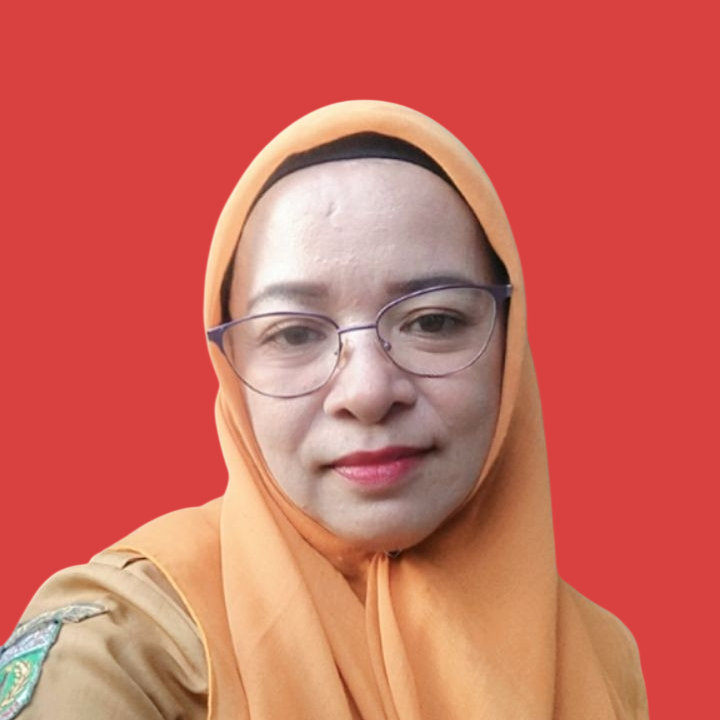
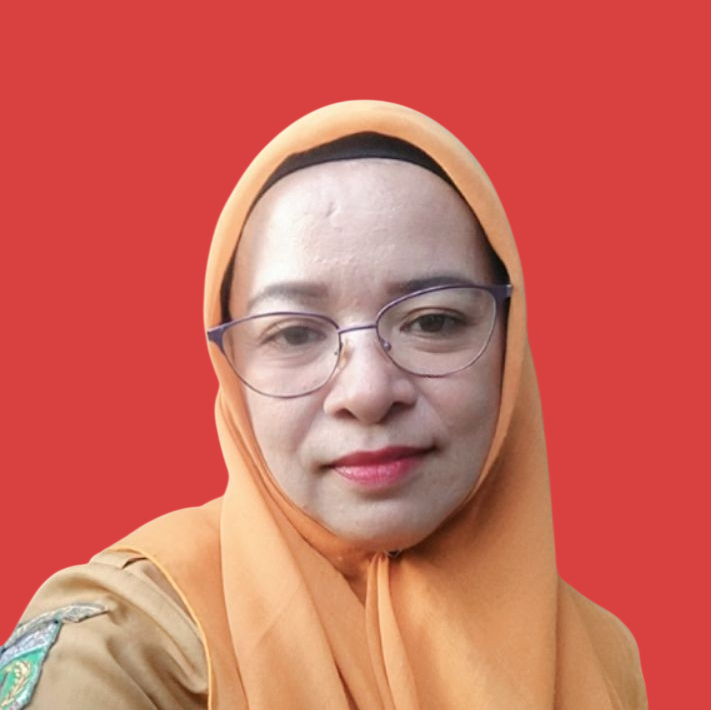
feat: ver 9

diff --git a/src/data/potensiData.ts b/src/data/potensiData.ts
@@ -13,7 +13,7 @@ export const dataPotensi: Potensi[] = [
     deskripsi: "Hadir dan aktifnya lembaga yang berperan mengelola pembagian air dan merawat saluran irigasi secara gotong royong sehingga menjamin produktivitas lahan pertanian Siparappe."
   },
   {
-    judul: "Tradisi Mapalilli",
+    judul: "Tradisi Mappalili",
     deskripsi: "Pelestarian Warisan Budaya Tak Benda berupa tradisi masyarakat berkumpul dan berdoa bersama sebelum mengawali prosesi atau musim penanaman padi."
   }
 ];

diff --git a/src/data/pemerintahanData.ts b/src/data/pemerintahanData.ts
@@ -13,7 +13,7 @@ export const strukturPemerintahan: Pegawai[] = [
   { nama: "Rasmahwati, S.Pd.", jabatan: "Staff", nip: "198212312006042067" },
   { nama: "Rindiani", jabatan: "Staff", nip: "20040302025212006" },
   { nama: "Wahyuddin", jabatan: "Kep. Lingkungan Sarempo" },
-  { nama: "H. P. Mamming", jabatan: "Kep. Lingkungan Bua-Bua" },
+  { nama: "", jabatan: "Kep. Lingkungan Bua-Bua" },
   { nama: "Sadar Capong", jabatan: "Kep. Lingkungan Madallo" }
 ];
 
